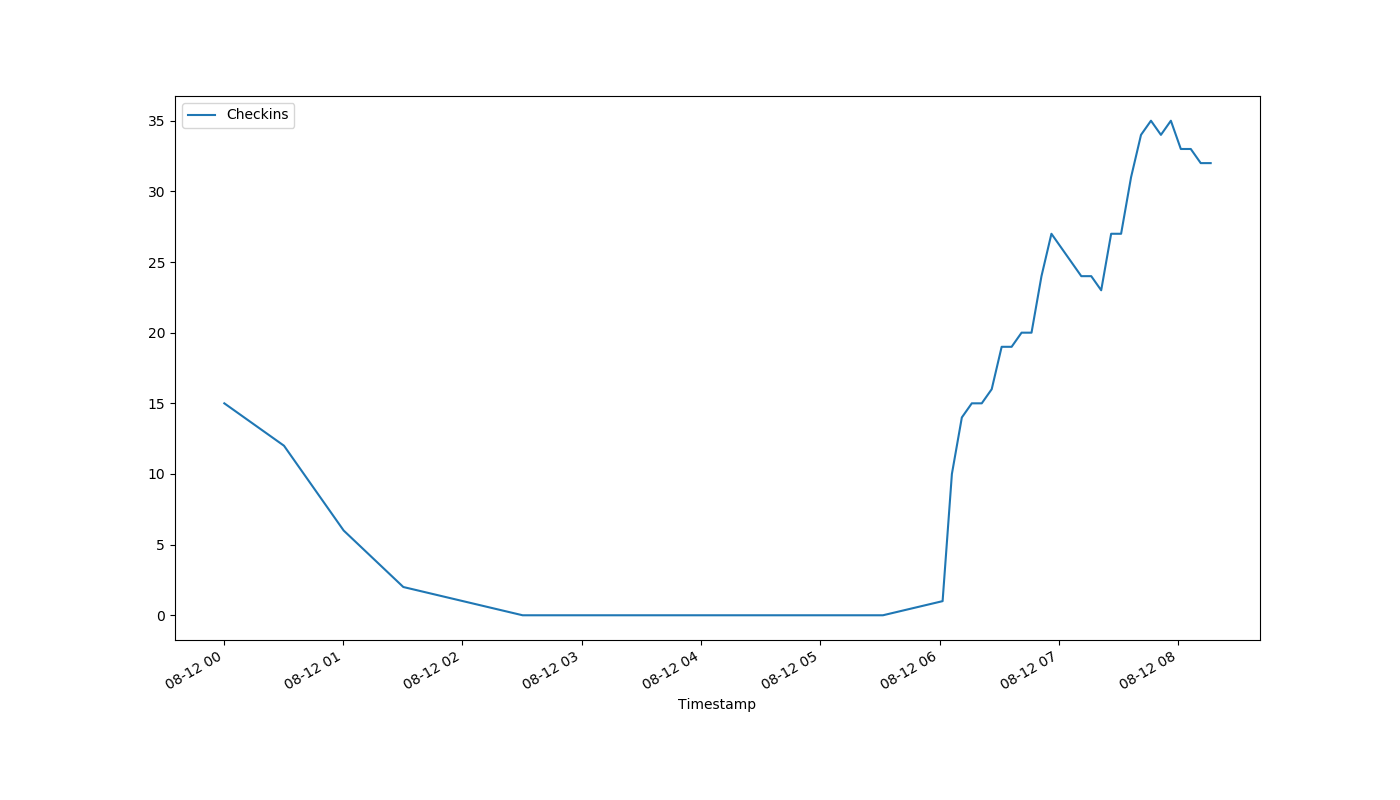
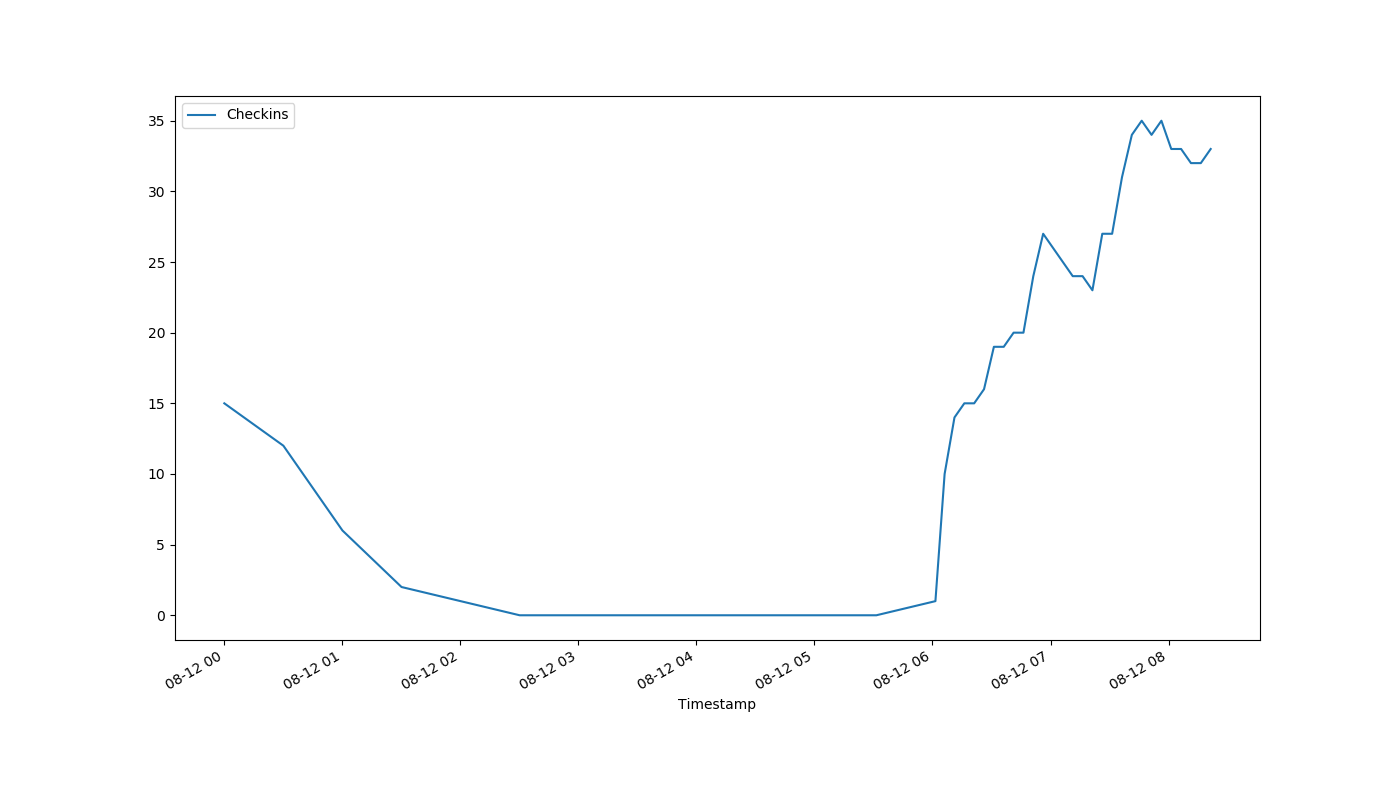
auto-Aug-12-08:22:39

diff --git a/index.html b/index.html
@@ -1,1 +1,1 @@
-<!DOCTYPE html><html><head><meta http-equiv="refresh" content="30"><link rel='stylesheet' href='holmcurrent.css'></head><body><p id='count'>32</p><div id='graph-wrap'><img id='graph' src='holmgraph-Aug-12.png'></div><p id='updated'>Last updated 08:17:15 / 08:16:19</p></body></html>
+<!DOCTYPE html><html><head><meta http-equiv="refresh" content="30"><link rel='stylesheet' href='holmcurrent.css'></head><body><p id='count'>33</p><div id='graph-wrap'><img id='graph' src='holmgraph-Aug-12.png'></div><p id='updated'>Last updated 08:22:15 / 08:21:19</p></body></html>
